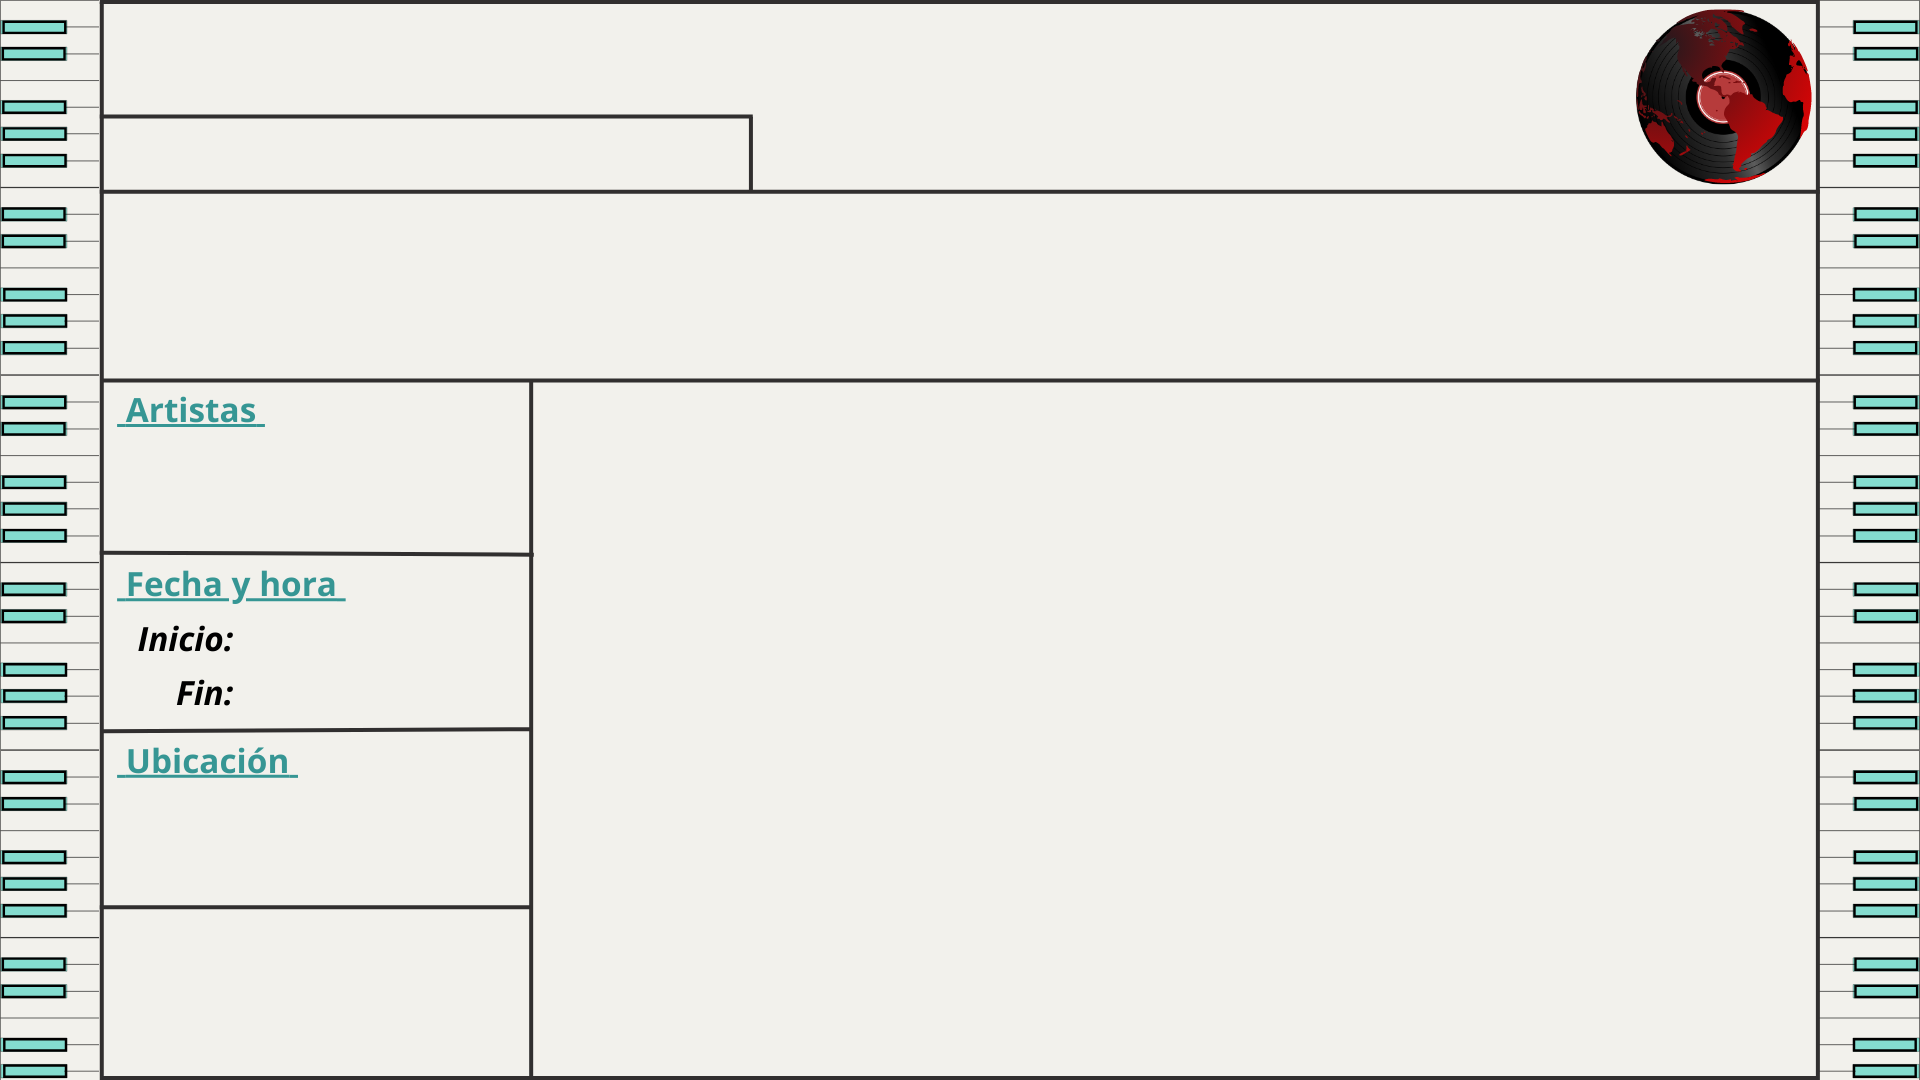
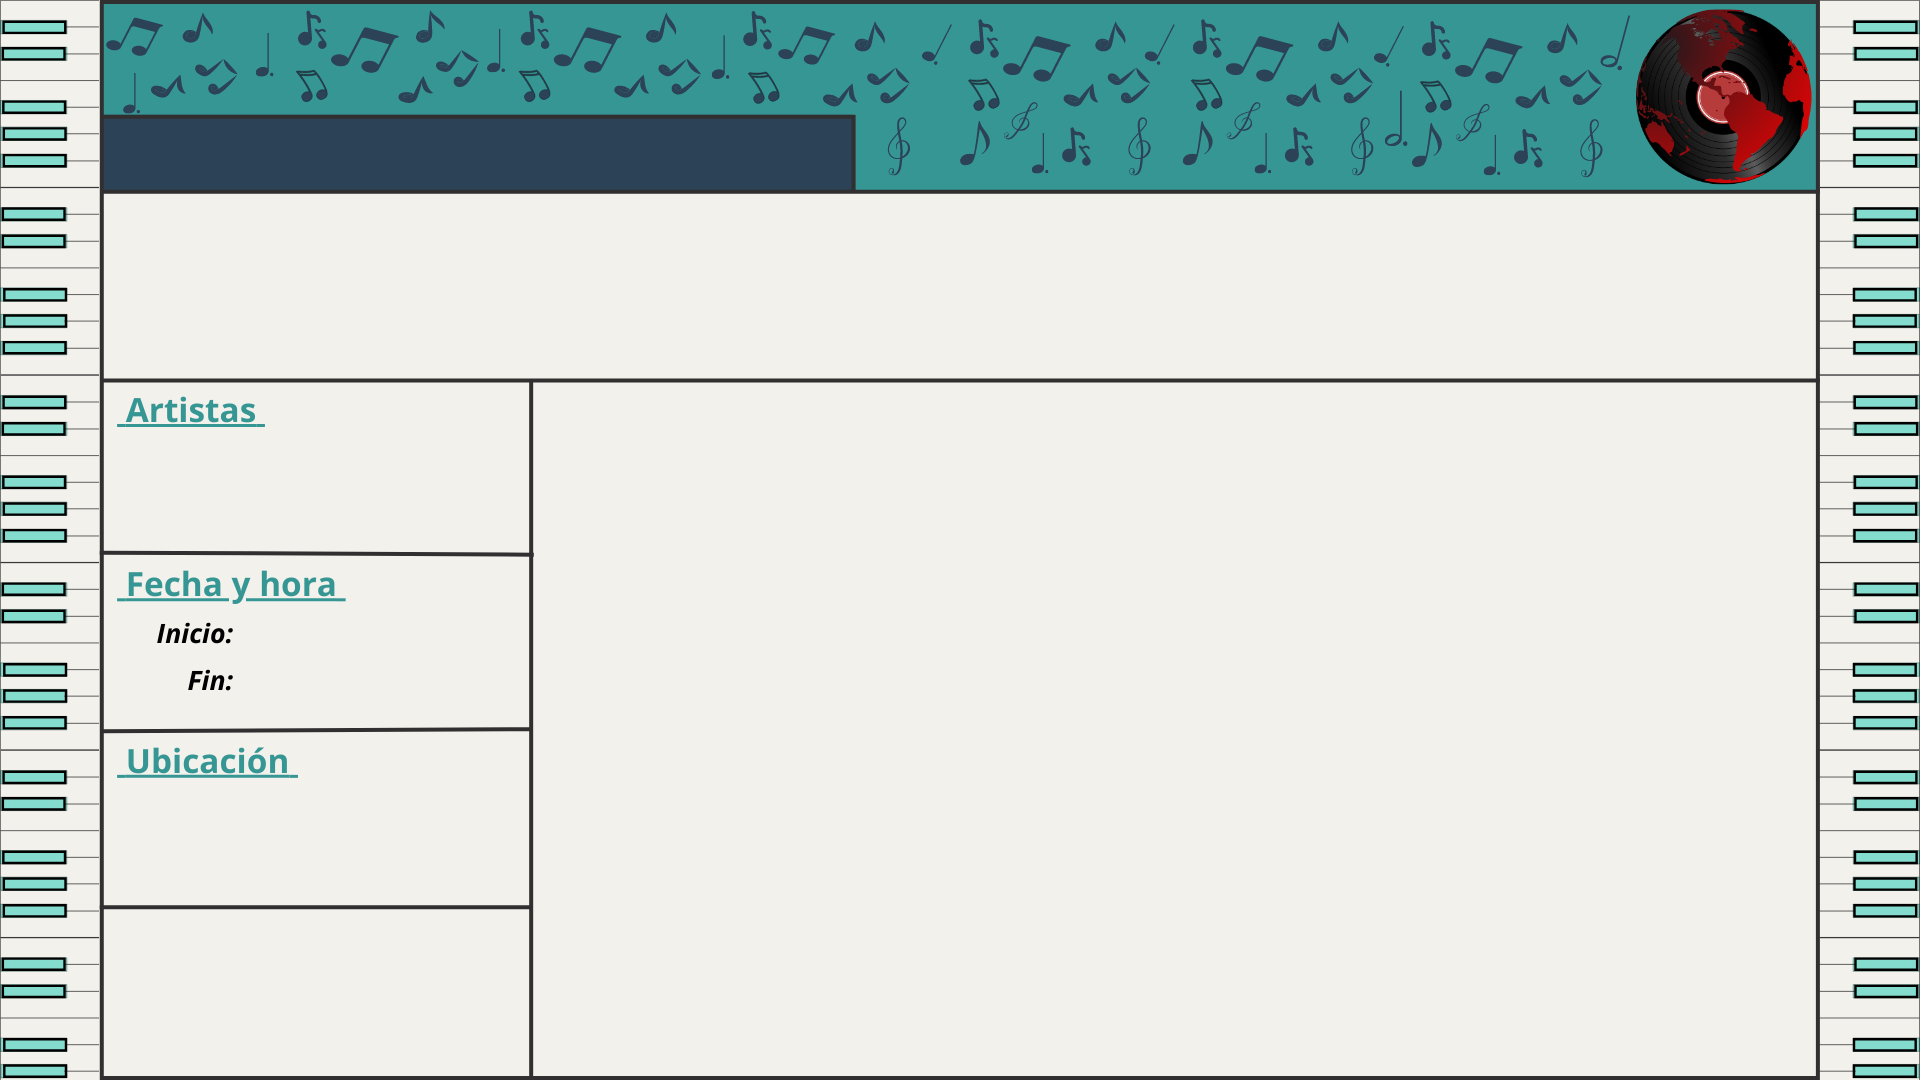
Proyect Final v4.1.0: Mejora de legibildad de codigo e Interfaz Grafica

Changed region(s): [[0.0312, 0.0, 0.9688, 0.1833], [0.0625, 0.5806, 0.125, 0.6722]]

diff --git a/views/window_event.py b/views/window_event.py
@@ -10,14 +10,19 @@ class About_event(Secundary_window):
         
         self.bg_panel.configure(self, image = about_event_bg)
         
+        # ========== variable ========== 
         self.event_id = event_id
         self.select_ubication_callback = select_ubication_callback
         
-        # ========== Creating widgets ==========  
-        self.venue_label = Label_text(self, size=40, fg_color="#F2F1EC", text_color="#369694") #PENSAR EN QUE TAMAÑO PONERLO MODIFICAR
+        # ========== title widgets ==========  
+        self.venue_label = Label_text(self, width=747.5, size=40, fg_color="#2B4257", text_color="#369694", anchor="center")
         
-        self.name_event_label = Label_text(self, size=35, fg_color="#F2F1EC", text_color="#369694")
+        self.name_event_label = Label_text(self, size=35, fg_color="#369694", text_color="#2B4257")
         
+        self.venue_label.place(x=104, y=130)
+        self.name_event_label.place(x=865, y=148)
+        
+        # ========== about event widget ========== 
         self.description_label_text = Label_text(self,         
                                            width=1680,
                                            height=150,
@@ -26,12 +31,30 @@ class About_event(Secundary_window):
                                            anchor="nw",
                                            justify="left")
         
+        self.description_label_text.place(x=120, y=210)
+        
+        # ========== Location event widgets (map view)========== 
         self.address_label = Label_text(self, size=20, fg_color="#F2F1EC")
         
+        self.map_frame = ctk.CTkFrame(self, width=1283, height=693)
+        
+        self.map_widget = tkintermapview.TkinterMapView(self.map_frame, width=1283, height=693)
+        self.map_widget.set_zoom(16) #Distancia de visualización del mapa
+        
+        self.address_label.place(x=120, y=800)
+        self.map_frame.place(x=533, y=383)
+        self.map_widget.place(x=0, y=0)
+        
+        # ========== Date/time widgets ==========
         self.start_time_label = Label_text(self, size=20, fg_color="#F2F1EC")
         
         self.end_time_label = Label_text(self, size=20, fg_color="#F2F1EC")
         
+        self.start_time_label.place(x=240, y=622)
+        self.end_time_label.place(x=240, y=669)
+        
+        
+        # ========== Buttom widgets ==========
         self.add_event_button = Button_theme_1(self,
                                                text="Añadir evento",
                                                command=lambda: self.add_event()) ###Modificar
@@ -40,25 +63,6 @@ class About_event(Secundary_window):
                                                  text="Volver atras",
                                                  command=lambda: self.back_window())
         
-        # ========== Map view Widget ==========
-        self.map_frame = ctk.CTkFrame(self, width=1283, height=693)
-        self.map_frame.place(x=533, y=383)
-        
-        
-        self.map_widget = tkintermapview.TkinterMapView(self.map_frame, width=1283, height=693)
-        self.map_widget.set_zoom(16) #Distancia de visualización del mapa
-        self.map_widget.place(x=0, y=0)
-        
-        
-        # ========== Placing widgets ==========
-        self.venue_label.place(x=120, y=130)
-        self.name_event_label.place(x=770, y=148)
-        
-        
-        self.description_label_text.place(x=120, y=210)
-        self.start_time_label.place(x=240, y=628)
-        self.end_time_label.place(x=240, y=682)
-        self.address_label.place(x=120, y=800)
         self.add_event_button.place(x=170, y=945)
         self.back_window_button.place(x=170, y=1010)
         
@@ -66,10 +70,16 @@ class About_event(Secundary_window):
         self.event_detail_upload(event_id)
         
     def back_window(self):
+        
+        """ Se autodestruye el objeto, cuando se destruye muestra el menu"""
+        
         print("Cerrando ventana de añadir evento, volviendo a menu")
         self.destroy()
         
     def event_detail_upload(self, event_id):
+        
+        """Carga de la informacion del evento seleccionado en el menu, hace uso de archivo json, necesita el id del evento"""
+        
         with open("data/event.json", "r") as file:
             data = json.load(file)
         
@@ -96,6 +106,8 @@ class About_event(Secundary_window):
         self.add_marker_to_map(latitude, longitude, venue)
         
     def add_marker_to_map(self, latitud, longitud, texto, imagen=None):
+        
+        """Permite añadir una marca al mapa"""
         return self.map_widget.set_marker(latitud, longitud, text=texto, image=imagen, command=self.select_ubication_callback)     
         
 class Create_event(Secundary_window):
@@ -103,24 +115,26 @@ class Create_event(Secundary_window):
         super().__init__(parent)
         
         self.bg_panel.configure(self, image = about_event_bg)
+        
+        # ========== variable ==========
         self.last_event_id = self.get_last_id()
         self.events = {}
         
-        # ========== Map view widget ==========
+        # ========== map view widget ==========
         self.map_frame = ctk.CTkFrame(self, width=1283, height=693)
         self.map_frame.place(x=533, y=383)      
         self.map_widget = tkintermapview.TkinterMapView(self.map_frame, width=1283, height=693)
-        self.map_widget.set_position(-24.77616437851034, -65.41079411004006) #Controla la ubicación por defecto del mapa
+        self.map_widget.set_position(-24.7891876, -65.4103297) #Controla la ubicación por defecto del mapa
         self.map_widget.set_zoom(16) #Distancia de visualización del mapa
         
         self.map_widget.place(x=0, y=0)
         
-        # ========== Place, name and description widgets ==========  
+        # ========== place, name and description widgets ==========  
         self.venue_entry = Entry_theme_1(self, 
-                                         width=620,
+                                         width=715,
                                          placeholder_text="Estadio... Teatro... Centro de...")
         
-        self.name_event_entry = Entry_theme_1(self, width=850,
+        self.name_event_entry = Entry_theme_1(self, width=755,
                                               placeholder_text="Nombre del evento...")
         
         self.description_textbox = TextBox(self,
@@ -129,10 +143,10 @@ class Create_event(Secundary_window):
                                            size=20)
        
         self.venue_entry.place(x=120, y=150)
-        self.name_event_entry.place(x=770, y=150)
+        self.name_event_entry.place(x=865, y=150)
         self.description_textbox.place(x=120, y=210)
         
-        # ========== Start Date/time widgets ==========  
+        # ========== start Date/time widgets ==========  
         self.start_date_entry = DateEntry(self,
                                     background="#84dccf",
                                     locale = "es_AR",  
@@ -147,11 +161,11 @@ class Create_event(Secundary_window):
         self.start_minute_entry = Entry_theme_1(self, width=35, placeholder_text = "MM")
         self.start_minute_entry.configure(validate="key", validatecommand=(self.register(self.validate_minute), "%P"))
         
-        self.start_date_entry.place(x=245, y=623)
-        self.start_hour_entry.place(x=375, y=620)
-        self.start_minute_entry.place(x=420, y=620)
+        self.start_date_entry.place(x=245, y=618)
+        self.start_hour_entry.place(x=375, y=615)
+        self.start_minute_entry.place(x=420, y=615)
         
-        # ========== End Date/time widgets ==========
+        # ========== end Date/time widgets ==========
         self.end_date_entry = DateEntry(self,
                                     background="#84dccf",
                                     locale = "es_AR",  
@@ -166,9 +180,9 @@ class Create_event(Secundary_window):
         self.end_minute_entry = Entry_theme_1(self, width=35, placeholder_text = "MM")
         self.end_minute_entry.configure(validate="key", validatecommand=(self.register(self.validate_minute), "%P"))
         
-        self.end_date_entry.place(x=245, y=676)
-        self.end_hour_entry.place(x=375, y=673)
-        self.end_minute_entry.place(x=420, y=673)
+        self.end_date_entry.place(x=245, y=666)
+        self.end_hour_entry.place(x=375, y=663)
+        self.end_minute_entry.place(x=420, y=663)
         
        # ========== Location widgets ========== 
         self.address_entry = Entry_theme_1(self, 
@@ -188,7 +202,7 @@ class Create_event(Secundary_window):
         self.longitude_entry.place(x=325, y=850)
         
         
-        # ========================================== 
+        # ========== Button widgets and label error widget ==========  
         self.error_label_text = Label_text(self,
                                            bg_color="#F2F1EC",
                                            text="Complete todos los campos requeridos.",
@@ -204,14 +218,20 @@ class Create_event(Secundary_window):
                                                  command=lambda: self.back_window())
         
         self.add_event_button.place(x=170, y=945)
-        
         self.back_window_button.place(x=170, y=1010)
         
     def back_window(self):
+        
+        """ Se autodestruye el objeto, cuando se destruye muestra el menu"""
+        
         print("Cerrando ventana de añadir evento, volviendo a menu")
         self.destroy()
         
     def add_event(self):
+        
+        """Obtiene de todos los widgets de ingreso de datos al hacer click añadir evento, se verifica si estos son correctos
+        se crea un objeto Event con esos datos y se guardan con un nuevo id en el json"""
+        
         venue = self.venue_entry.get()
         name = self.name_event_entry.get()
         description = self.description_textbox.get("1.0", "end")
@@ -253,12 +273,14 @@ class Create_event(Secundary_window):
         with open("data/event.json", "w") as file:
             json.dump(data, file, indent=4)
             
-        print("Evento creado con exito!")
-        print("Cerrando ventana de añadir evento, volviendo a menu")   
+        print("Evento creado con exito!")  
             
-        return self.destroy()
+        return self.back_window()
             
     def get_last_id(self):
+        
+        """Obtiene el ultimo ID de los eventos que estan en el json"""
+        
         with open("data/event.json", "r") as file:
             data = json.load(file)
             if data and "events" in data:
@@ -268,6 +290,10 @@ class Create_event(Secundary_window):
         return 0
     
     def validate_hour(self, input_value):
+        
+        """No permite que se ingresen letras y caracteres especiales en un widget entry se utiliza
+        para permitir la entrada de un rango de hora correcto"""
+        
         if input_value.strip() == "":
             return True
         try:
@@ -277,6 +303,9 @@ class Create_event(Secundary_window):
             return False
 
     def validate_minute(self, input_value):
+        """No permite que se ingresen letras y caracteres especiales en un widget entry se utiliza
+        para permitir la entrada de un rango de minuto correcto"""
+        
         if input_value.strip() == "":
             return True
         try:

diff --git a/views/window_menu.py b/views/window_menu.py
@@ -74,8 +74,8 @@ class Menu(ctk.CTk):
                 
         self.delete_event_buttom = Button_theme_1(self, width = 145, text = "Eliminar")
                 
-        self.add_event_buttom.place(x=850, y=30)
-        self.delete_event_buttom.place(x=850, y=70)
+        self.add_event_buttom.place(x=830, y=50)
+        self.delete_event_buttom.place(x=830, y=90)
                 
     def open_create_event_window(self):
         
